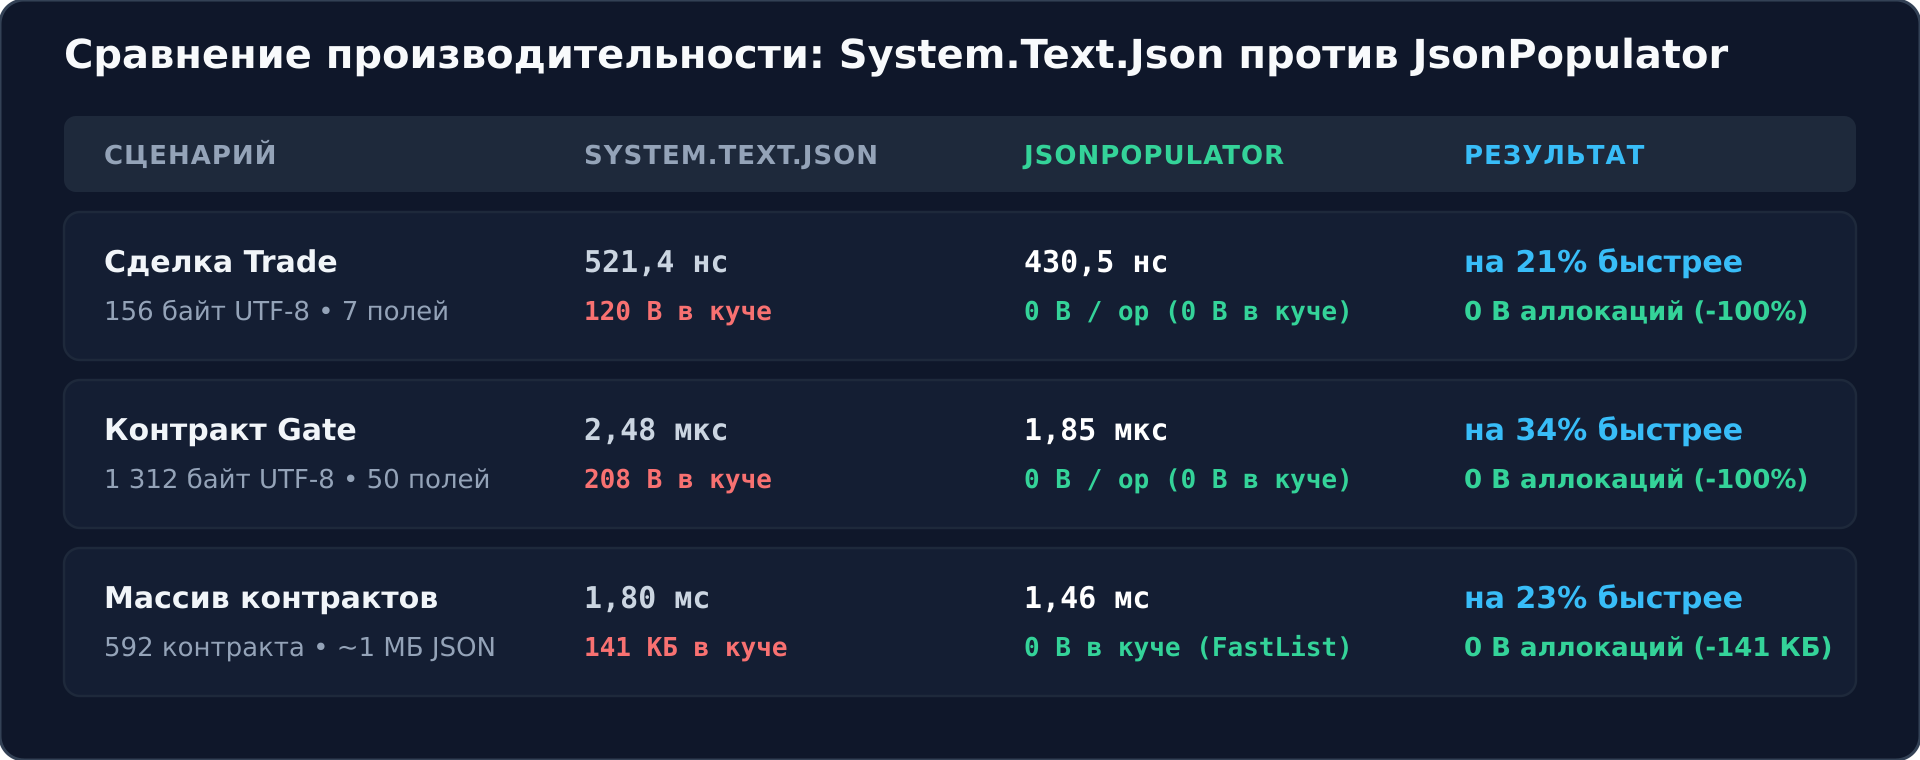
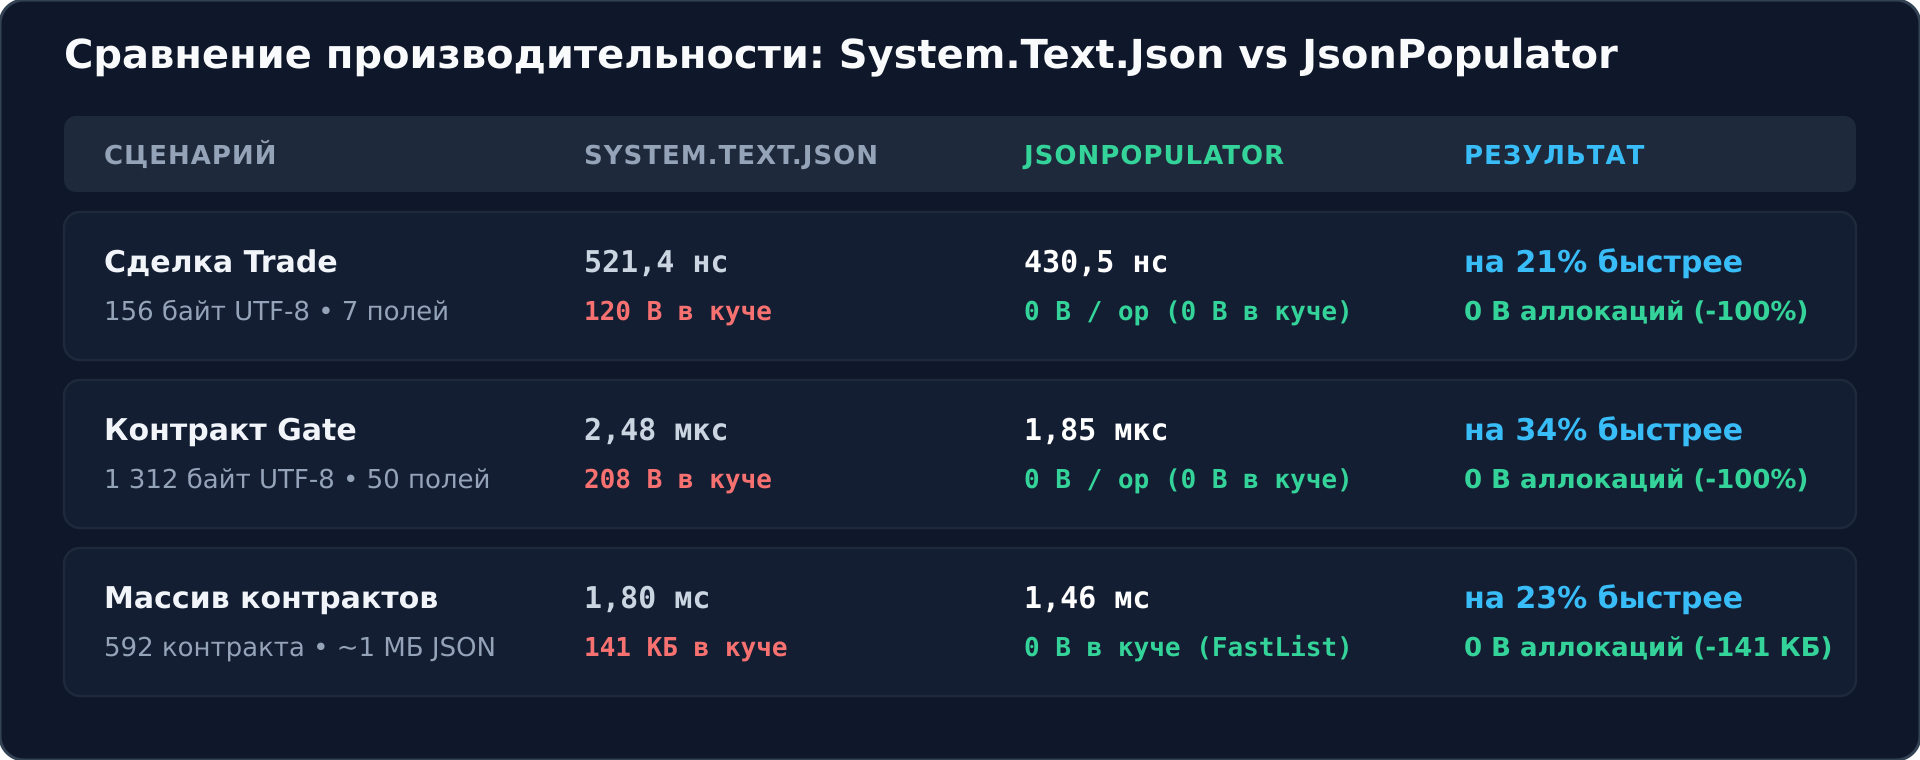
Replace против with vs in benchmark summary images and alt-texts

Changed region(s): [[0.625, 0.0303, 0.9062, 0.0908]]

diff --git a/zero-alloc-json/README.md b/zero-alloc-json/README.md
@@ -349,7 +349,7 @@ private bool TryGetDecimalMultiSegment(out decimal value)
 
 Замеры производительности проводились с помощью `BenchmarkDotNet v0.15.8` на процессоре **AMD Ryzen 9 5950X**, ОС Ubuntu 24.04.3 LTS, среда execution: **.NET 10.0.14** (Release/x64 RyuJIT).
 
-[![Сводные результаты бенчмарков: System.Text.Json против JsonPopulator](https://raw.githubusercontent.com/mzaprudin/articles/main/zero-alloc-json/assets/00-benchmark-summary.png)](https://raw.githubusercontent.com/mzaprudin/articles/main/zero-alloc-json/assets/00-benchmark-summary.png)
+[![Сводные результаты бенчмарков: System.Text.Json vs JsonPopulator](https://raw.githubusercontent.com/mzaprudin/articles/main/zero-alloc-json/assets/00-benchmark-summary.png)](https://raw.githubusercontent.com/mzaprudin/articles/main/zero-alloc-json/assets/00-benchmark-summary.png)
 
 ### Тест 1. Разбор компактного объекта сделки (Trade, 156 байт)
 

diff --git a/zero-alloc-json/habr.md b/zero-alloc-json/habr.md
@@ -349,7 +349,7 @@ private bool TryGetDecimalMultiSegment(out decimal value)
 
 Замеры производительности проводились с помощью `BenchmarkDotNet v0.15.8` на процессоре **AMD Ryzen 9 5950X**, ОС Ubuntu 24.04.3 LTS, среда execution: **.NET 10.0.14** (Release/x64 RyuJIT).
 
-[![Сводные результаты бенчмарков: System.Text.Json против JsonPopulator](https://raw.githubusercontent.com/mzaprudin/articles/main/zero-alloc-json/assets/00-benchmark-summary.png)](https://raw.githubusercontent.com/mzaprudin/articles/main/zero-alloc-json/assets/00-benchmark-summary.png)
+[![Сводные результаты бенчмарков: System.Text.Json vs JsonPopulator](https://raw.githubusercontent.com/mzaprudin/articles/main/zero-alloc-json/assets/00-benchmark-summary.png)](https://raw.githubusercontent.com/mzaprudin/articles/main/zero-alloc-json/assets/00-benchmark-summary.png)
 
 ### Тест 1. Разбор компактного объекта сделки (Trade, 156 байт)
 
